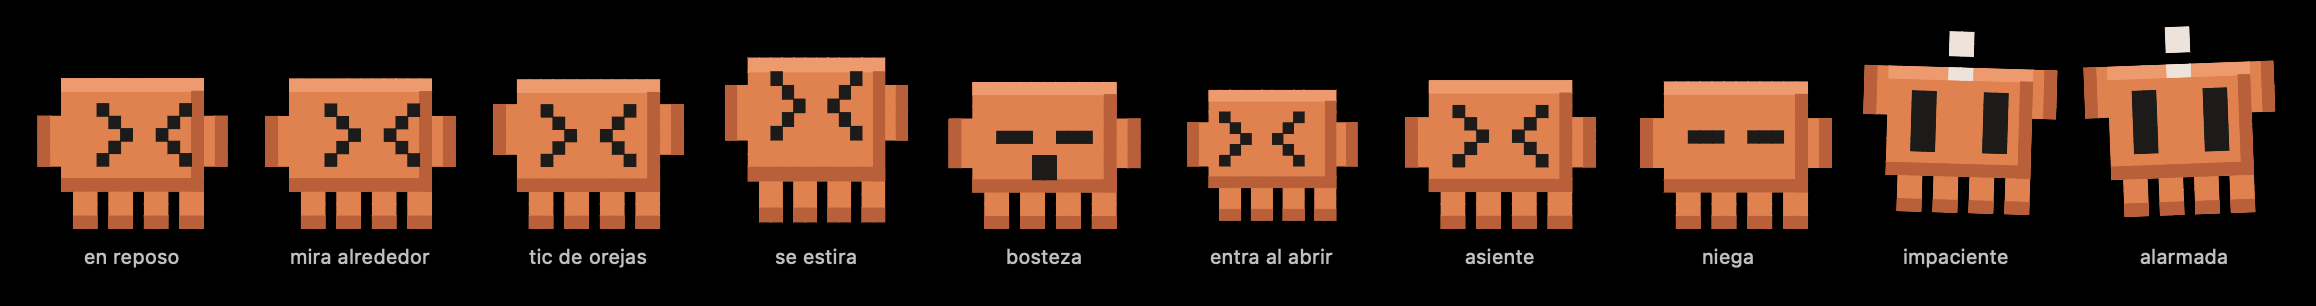
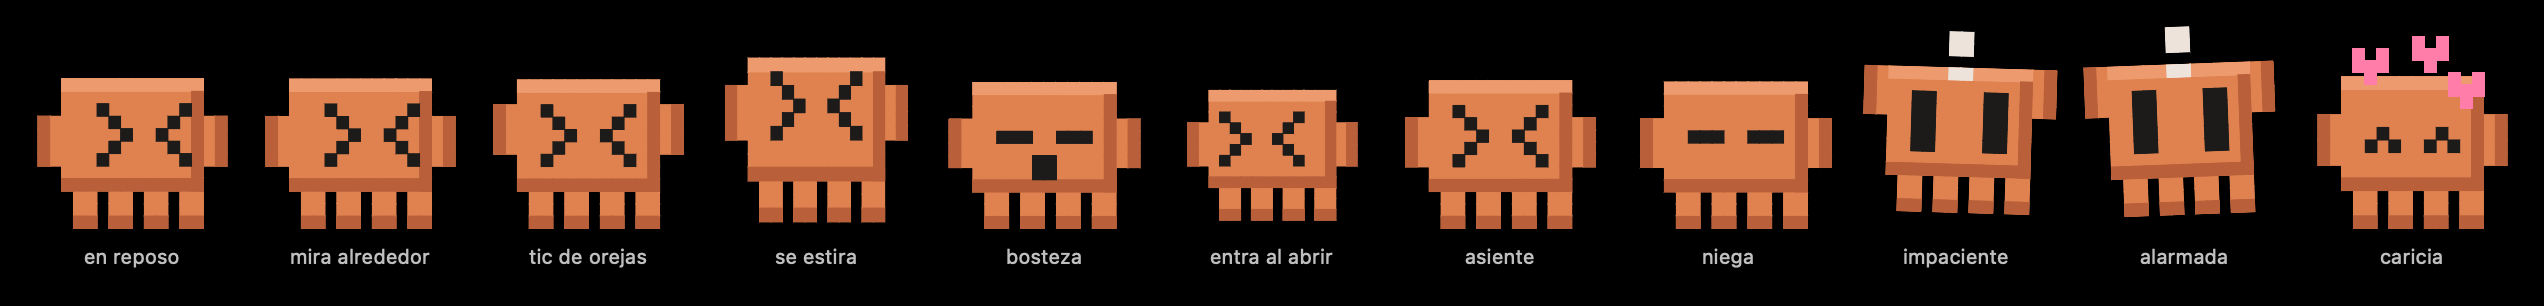
docs: la tira de la vida incluye la caricia

diff --git a/Sources/ClaudePet/IslandController.swift b/Sources/ClaudePet/IslandController.swift
@@ -827,6 +827,7 @@ extension IslandSnapshot {
         var shaking = base; shaking.decisionAllow = false; shaking.decisionAt = 30
         var impatient = PetScene(state: .waiting); impatient.waitingFor = 20
         var alarmed = PetScene(state: .waiting); alarmed.waitingFor = 50
+        var petted = base; petted.pettingFor = 1.5
         let frames: [(String, TimeInterval, PetScene)] = [
             ("en reposo", 1.0, base),
             ("mira alrededor", find { $0.look != nil } + 0.3, base),
@@ -838,6 +839,7 @@ extension IslandSnapshot {
             ("niega", 30.1, shaking),
             ("impaciente", 3.3, impatient),
             ("alarmada", 1.0, alarmed),
+            ("caricia", 5.0, petted),
         ]
         let view = HStack(spacing: 18) {
             ForEach(Array(frames.enumerated()), id: \.offset) { _, f in

diff --git a/docs/CHANGELOG-ISLAND.md b/docs/CHANGELOG-ISLAND.md
@@ -97,3 +97,4 @@
 - rendimiento: el transcript se lee desde la cola, la mirada se publica solo si cambia, la búsqueda de terminal se recuerda 5 s y el contexto se escanea cada 5 s (15 s en reposo).
 - la mascota se inclina hacia el cursor con todo el cuerpo; cada herramienta del agente lanza una onda desde ella; al cambiar de agente la escena entra con un resorte y las cifras del resumen ruedan; la mascota de codex respira, se estira, bosteza, saluda con la mano y salta al terminar, igual que la de claude.
 - la mascota entra con un rebote al abrirse la isla, asiente al permitir un permiso y niega al denegarlo, se impacienta (golpetea y se balancea) si un permiso lleva 15 s esperando y muestra una exclamación a los 40 s; la de codex reacciona a sus propios toques.
+- caricia: si dejas el cursor sobre la mascota más de 0,8 s se pone contenta (ojos ^ ^, ronroneo y corazones); de día y tranquila, una mariposa revolotea sobre ella y la sigue con los ojos.
